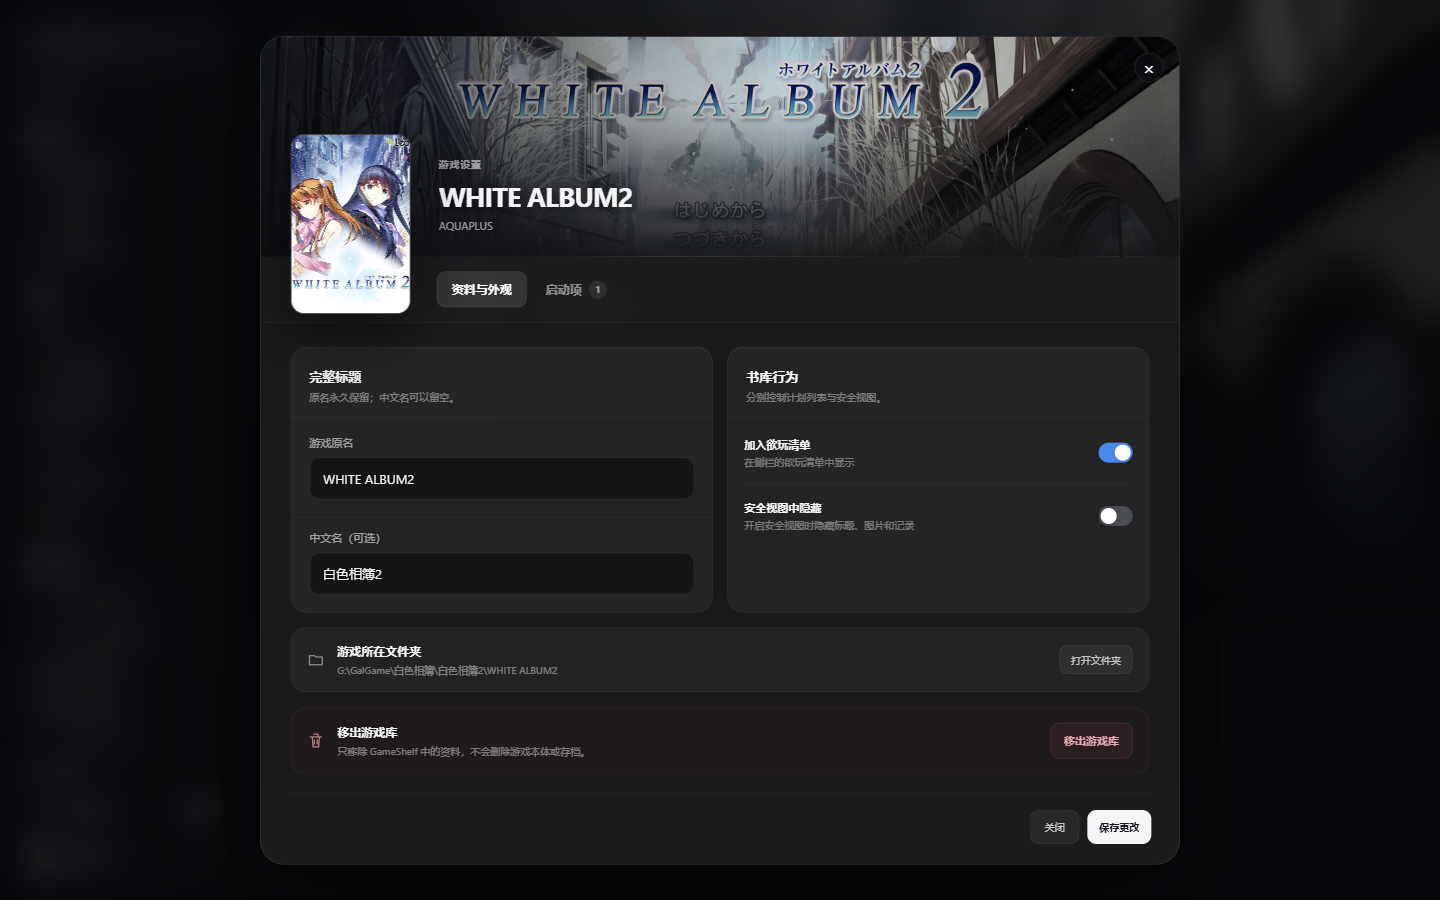
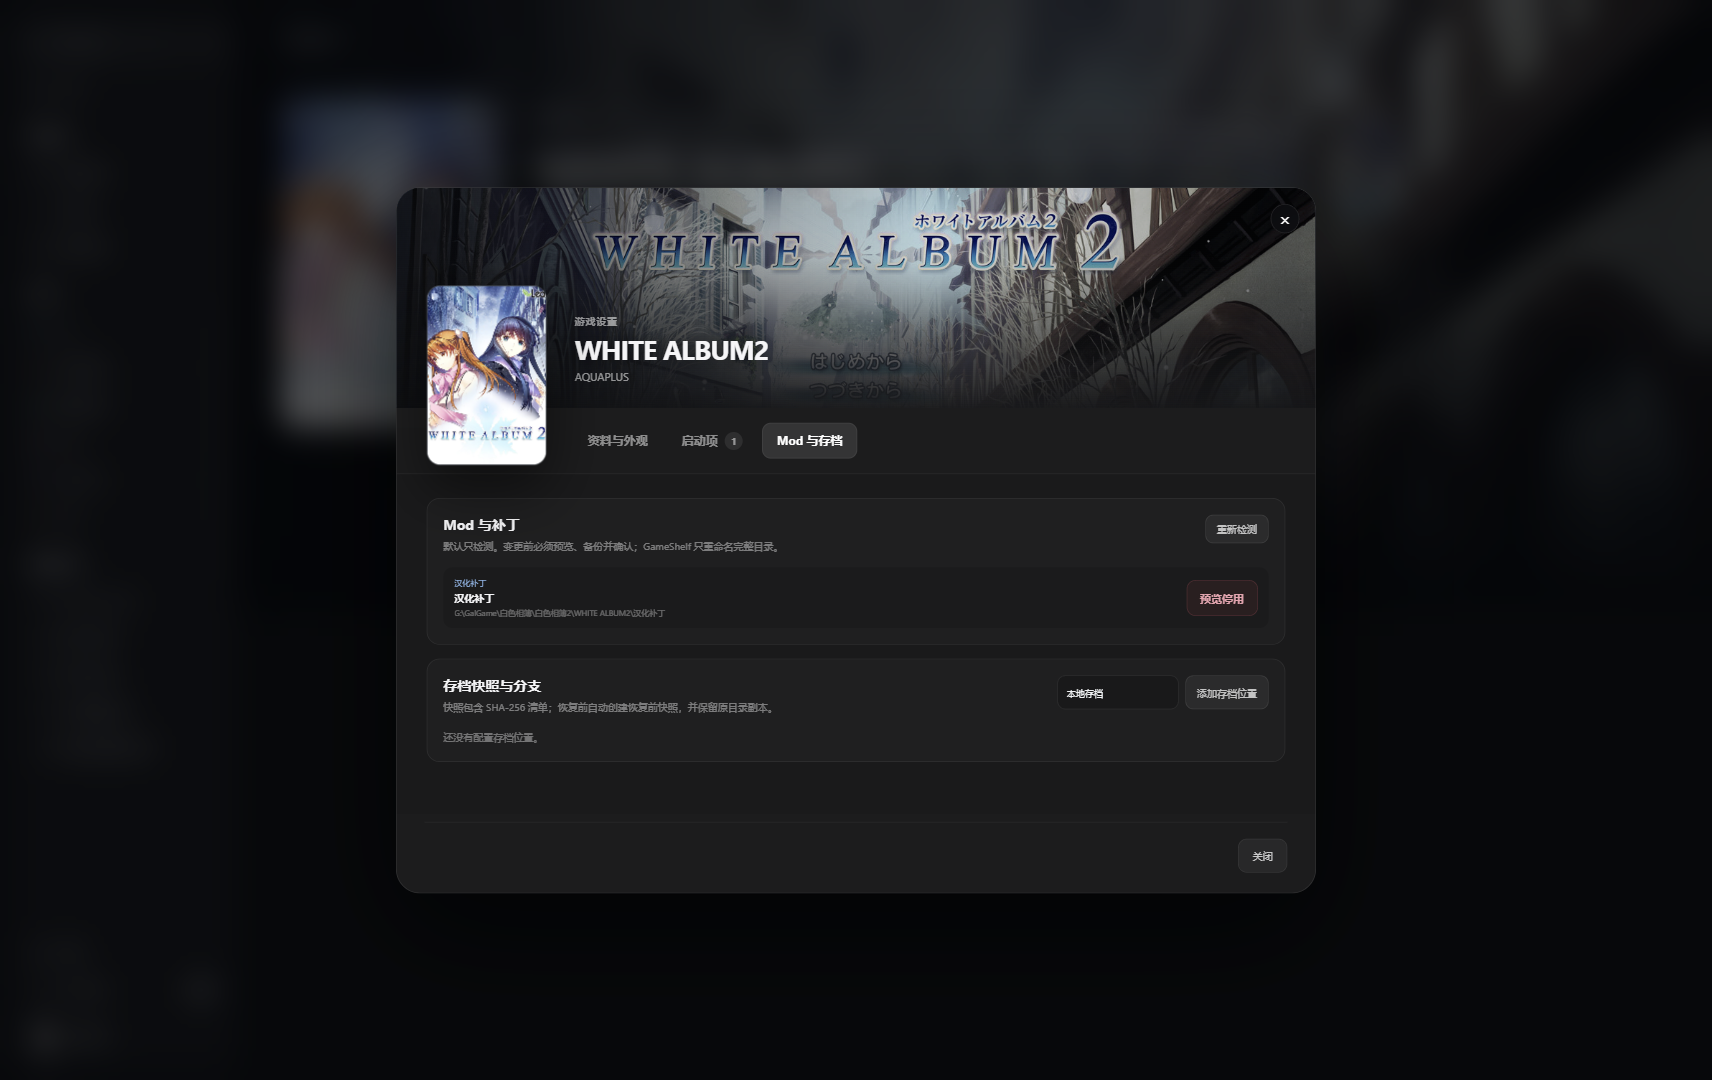
Update README with GameShelf 1.0 screenshot

diff --git a/README.md b/README.md
@@ -16,7 +16,7 @@
 ---
 
 <div align="center">
-  <img src="docs/preview.png" width="960" alt="GameShelf 游戏设置界面" />
+  <img src="docs/preview.png" width="960" alt="GameShelf 1.0 Mod 与存档界面" />
 </div>
 
 ---
